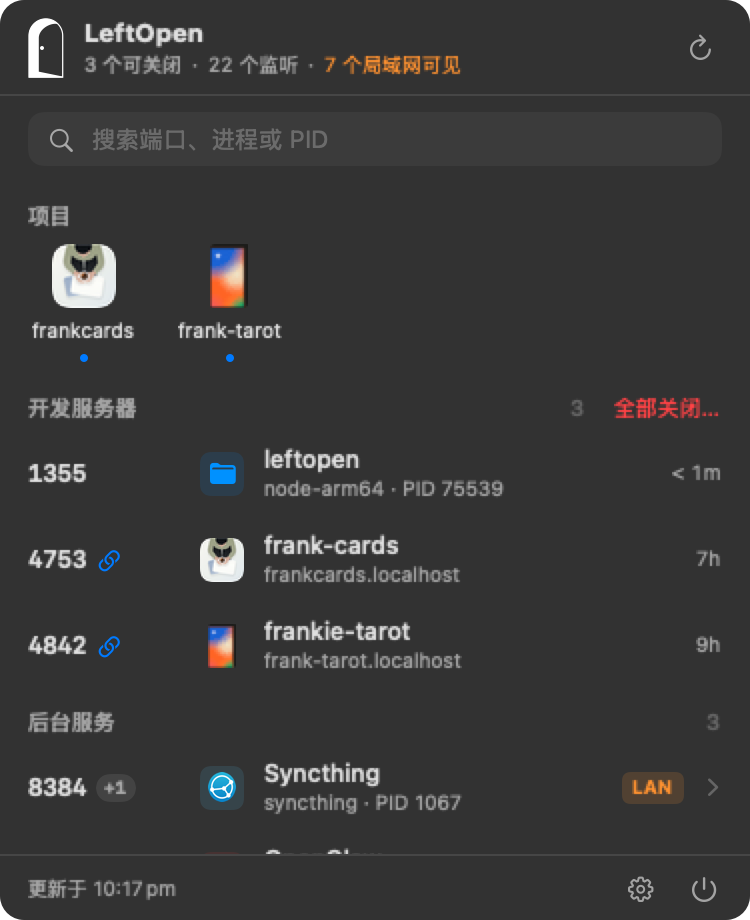
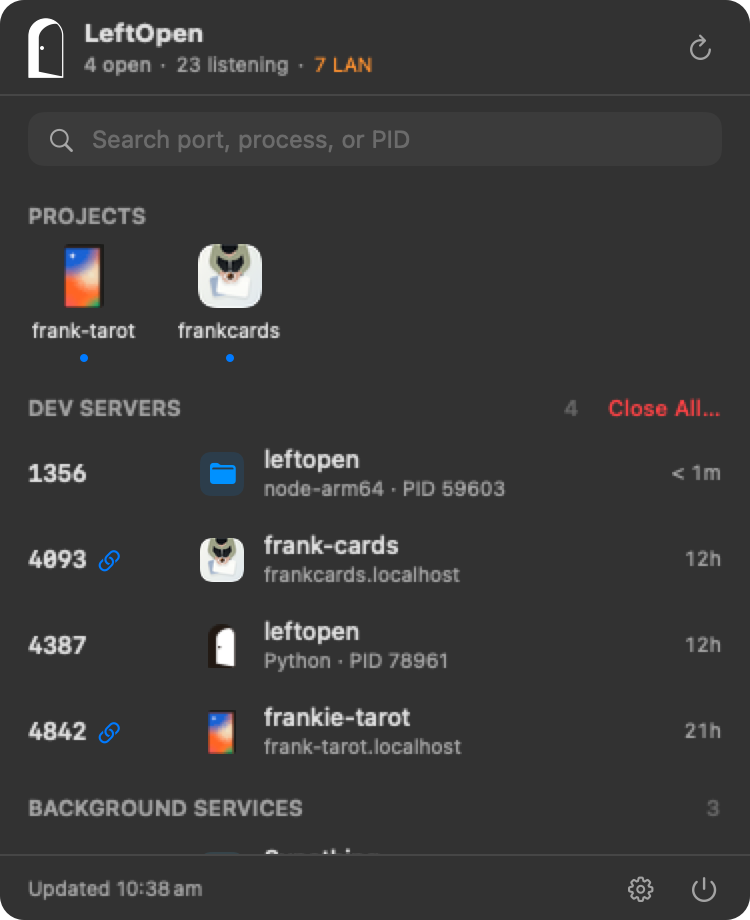
update screenshot

diff --git a/docs/index.html b/docs/index.html
@@ -733,7 +733,10 @@
           <p class="alternate" lang="zh">支持 Apple Silicon 和 Intel Mac · macOS 14+</p>
           <p class="alternate" lang="en">Apple Silicon and Intel Macs · macOS 14+</p>
         </div>
-        <figure class="shot"><picture><source srcset="assets/preview-dark.png" media="(prefers-color-scheme: dark)"><img src="assets/preview.png" width="375" height="460" alt="The LeftOpen menu bar panel showing listening ports and their owners"></picture></figure>
+        <figure class="shot">
+          <picture lang="en"><source srcset="assets/preview-dark.png" media="(prefers-color-scheme: dark)"><img src="assets/preview.png" width="375" height="460" alt="LeftOpen in English, showing project shortcuts, fixed addresses and listening ports"></picture>
+          <picture lang="zh"><source srcset="assets/preview-zh-dark.png" media="(prefers-color-scheme: dark)"><img src="assets/preview-zh.png" width="375" height="460" alt="LeftOpen 中文界面，展示项目快捷栏、固定地址和监听端口"></picture>
+        </figure>
       </section>
       <section>
         <h2 lang="zh">只保留需要知道的事。</h2><h2 lang="en">Only the details that matter.</h2>

diff --git a/README.zh-CN.md b/README.zh-CN.md
@@ -18,8 +18,8 @@
 
   <br />
   <picture>
-    <source srcset="assets/preview-dark.png" media="(prefers-color-scheme: dark)">
-    <img src="assets/preview.png" alt="LeftOpen 菜单栏面板：可关闭的端口排在前面，系统服务与 app 折叠收起" width="375" />
+    <source srcset="assets/preview-zh-dark.png" media="(prefers-color-scheme: dark)">
+    <img src="assets/preview-zh.png" alt="LeftOpen 菜单栏面板：可关闭的端口排在前面，系统服务与 app 折叠收起" width="375" />
   </picture>
   <br /><br />
 </div>
